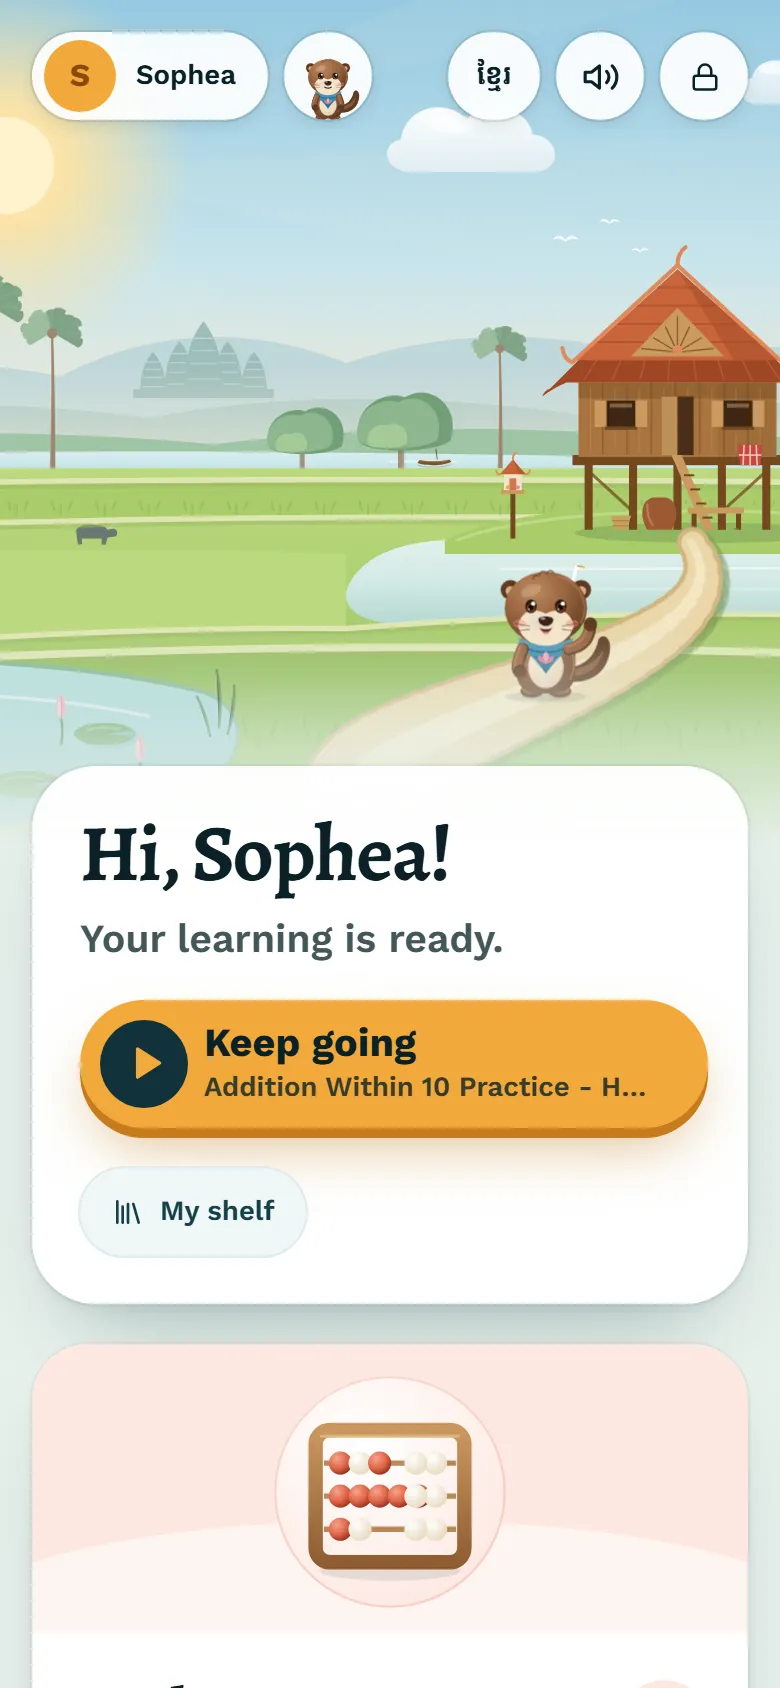
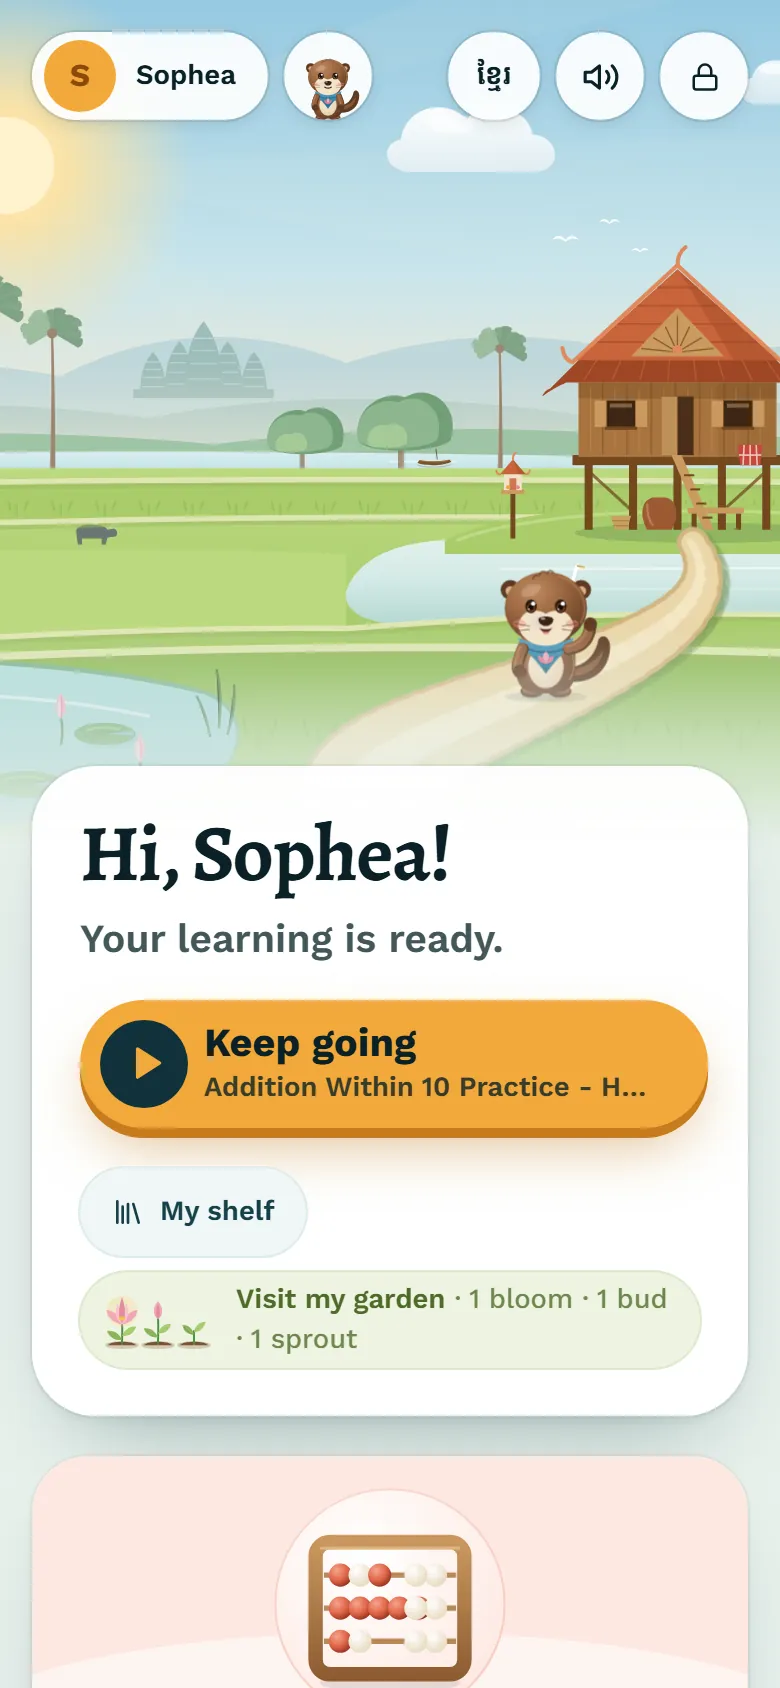
feat(landing): the garden in the story; fresh product shots of the current child and parent screens (Y39)

Changed region(s): [[0.0308, 0.7393, 0.9846, 1.0], [0.0308, 0.955, 0.3077, 1.0], [0.7077, 0.955, 0.9538, 1.0]]

diff --git a/frontend/src/features/marketing/trust.messages.ts b/frontend/src/features/marketing/trust.messages.ts
@@ -9,6 +9,17 @@ export const trustMessages = defineMessages(
   "features/marketing/trust",
   {
     nav: { safety: "Safety", plans: "Plans" },
+    grow: {
+      title: "Watch understanding grow.",
+      lead: "Every skill your child practises becomes a plant in their own garden. It buds when their answers show it getting stronger, and blooms when they show it is secure - never just because a lesson was finished.",
+      points: {
+        a: "Grown only from your child's own answers",
+        b: "No points, coins or streaks to chase",
+        c: "The same evidence you see as a parent",
+      },
+      shot: "A child's garden in the product: one skill in bloom, two still growing.",
+      caption: "From the product, with sample data.",
+    },
     proof: {
       label: "In short",
       ages: "Short lessons for ages 4 to 9",
@@ -78,6 +89,17 @@ export const trustMessages = defineMessages(
   },
   {
     nav: { safety: "សុវត្ថិភាព", plans: "កញ្ចប់" },
+    grow: {
+      title: "មើលការយល់ដឹងលូតលាស់។",
+      lead: "ជំនាញនីមួយៗដែលកូនរបស់អ្នកហាត់ ក្លាយជារុក្ខជាតិមួយនៅក្នុងសួនផ្ទាល់ខ្លួនរបស់ពួកគេ។ វាចេញពន្លកផ្កា ពេលចម្លើយរបស់ពួកគេបង្ហាញថាវាកាន់តែខ្លាំងឡើង ហើយរីកផ្កា ពេលចម្លើយបង្ហាញថាវារឹងមាំ - មិនដែលគ្រាន់តែដោយសារមេរៀនមួយត្រូវបានបញ្ចប់នោះទេ។",
+      points: {
+        a: "លូតលាស់តែពីចម្លើយផ្ទាល់របស់កូនអ្នកប៉ុណ្ណោះ",
+        b: "គ្មានពិន្ទុ កាក់ ឬការប្រកួតរាប់ថ្ងៃដែលត្រូវដេញតាម",
+        c: "ភស្តុតាងដូចគ្នាដែលអ្នកឃើញក្នុងនាមជាឪពុកម្ដាយ",
+      },
+      shot: "សួនរបស់កុមារម្នាក់នៅក្នុងផលិតផល៖ ជំនាញមួយកំពុងរីកផ្កា និងពីរកំពុងលូតលាស់។",
+      caption: "ពីផលិតផល ជាមួយទិន្នន័យគំរូ។",
+    },
     proof: {
       label: "ដោយសង្ខេប",
       ages: "មេរៀនខ្លីៗសម្រាប់អាយុ 4 ដល់ 9 ឆ្នាំ",

diff --git a/frontend/src/features/marketing/LandingPage.tsx b/frontend/src/features/marketing/LandingPage.tsx
@@ -21,6 +21,8 @@ import childQuestion from "./shots/child-question.webp";
 import parentHome from "./shots/parent-home.webp";
 import parentChild from "./shots/parent-child.webp";
 import teacherTrend from "./shots/teacher-trend.webp";
+import childGarden from "./shots/child-garden.webp";
+import { Plant } from "@/features/world/Plant";
 import { messagesIn, useLocale, useMessages } from "@/i18n/catalog";
 import { marketingMessages } from "./messages";
 import { common } from "@/components/ui/messages";
@@ -47,6 +49,7 @@ export function LandingPage() {
         <HowItWorks />
         <ForParents />
         <ForChildren />
+        <Grow />
         <Safety />
         <Subjects />
         <Plans />
@@ -125,7 +128,7 @@ function Hero() {
             src={parentHome}
             alt={l.shotParent}
             width={1600}
-            height={949}
+            height={1073}
             eager
             className="ml-auto w-[88%] rotate-[1.5deg] motion-safe:animate-rise-in"
           />
@@ -419,6 +422,40 @@ function Schools() {
         </figure>
       </div>
     </section>
+  );
+}
+
+/**
+ * The garden of skills (Y39), told to a parent: the one thing a child collects, grown only from their
+ * answers - shown with the real component's stages and a screenshot of the product (sample data).
+ */
+function Grow() {
+  const m = useMessages(trustMessages).grow;
+  return (
+    <Section id="grow">
+      <div className="grid items-center gap-12 lg:grid-cols-[minmax(0,0.9fr)_minmax(0,1.1fr)] lg:gap-16">
+        <div className="flex flex-col gap-7">
+          <Heading title={m.title} lead={m.lead} />
+          <div aria-hidden className="flex items-end gap-6">
+            <Plant stage="sprout" size={56} />
+            <Plant stage="bud" size={62} />
+            <Plant stage="bloom" size={72} />
+          </div>
+          <ul className="flex flex-col gap-3">
+            {[m.points.a, m.points.b, m.points.c].map((point) => (
+              <li key={point} className="flex items-start gap-3 leading-relaxed text-ink">
+                <Check size={18} strokeWidth={2.5} className="mt-0.5 shrink-0 text-palm" aria-hidden />
+                {point}
+              </li>
+            ))}
+          </ul>
+        </div>
+        <figure className="flex flex-col gap-3">
+          <img src={childGarden} alt={m.shot} width={1600} height={543} loading="lazy" className="w-full rounded-[24px] shadow-lift" />
+          <figcaption className="text-sm text-ink-soft">{m.caption}</figcaption>
+        </figure>
+      </div>
+    </Section>
   );
 }
 

diff --git a/frontend/src/features/child/SkillGarden.tsx b/frontend/src/features/child/SkillGarden.tsx
@@ -53,7 +53,10 @@ function GardenBed({ plant, index }: { plant: GardenPlant; index: number }) {
       className="flex flex-col items-center gap-1.5 text-center motion-safe:animate-rise-in"
       style={{ animationDelay: `${Math.min(index, 10) * 60}ms` }}
     >
-      <Plant stage={plant.stage} size={plant.stage === "bloom" ? 76 : 66} />
+      {/* every plant stands on the same ground line, whatever its height */}
+      <span className="flex h-[96px] items-end justify-center">
+        <Plant stage={plant.stage} size={plant.stage === "bloom" ? 76 : 66} />
+      </span>
       <span className="text-[0.95rem] font-semibold leading-snug text-tonle-950">{plant.skill.name}</span>
       <span
         className={cn(

diff --git a/REDESIGN-PROGRAM.md b/REDESIGN-PROGRAM.md
@@ -11,8 +11,8 @@ BOOKEYOND-KID-ENGINEERING-PROGRESS.md.
 | 3 | Shared visual system | ✅ Done in Y38 (warm paper, pills, card depth, lockup, night rail); extended per step below |
 | 4 | Child experience and meaningful gamification | ✅ Done: garden of skills (shelf + home glimpse), "your garden grew" on completion from real standings, review chip, chapter trail, interaction pictograms, finished-path replay hint |
 | 5 | Parent dashboard, statistics, drill-downs | ✅ Done: per-child "Recently" (one activity's answers, labelled as such) and "Next" (named as a review when it is one) signals shown only with data; no duplicate date; path count says "steps done"; practice box only when flagged (Y37); drill-down Overview → child → Skills & progress → skill evidence kept |
-| 6 | Landing page and marketing story | ⏳ In progress |
-| 7 | Teacher, principal and admin workspaces | ⬜ |
+| 6 | Landing page and marketing story | ✅ Done: "Watch understanding grow" section (real plant stages, real garden shot with sample data, no points/coins/streaks), fresh child-entrance and parent shots matching the current product |
+| 7 | Teacher, principal and admin workspaces | ⏳ In progress |
 | 8 | Bilingual, responsive and shared components | ⬜ |
 | 9 | Bounded final review and commit | ⬜ |
 
@@ -27,4 +27,4 @@ BOOKEYOND-KID-ENGINEERING-PROGRESS.md.
 
 ## Next step
 
-Step 6: landing - the garden in the story, fresh product shots.
+Step 7: teacher, principal and admin workspaces - role-specific first screens, less overload.
